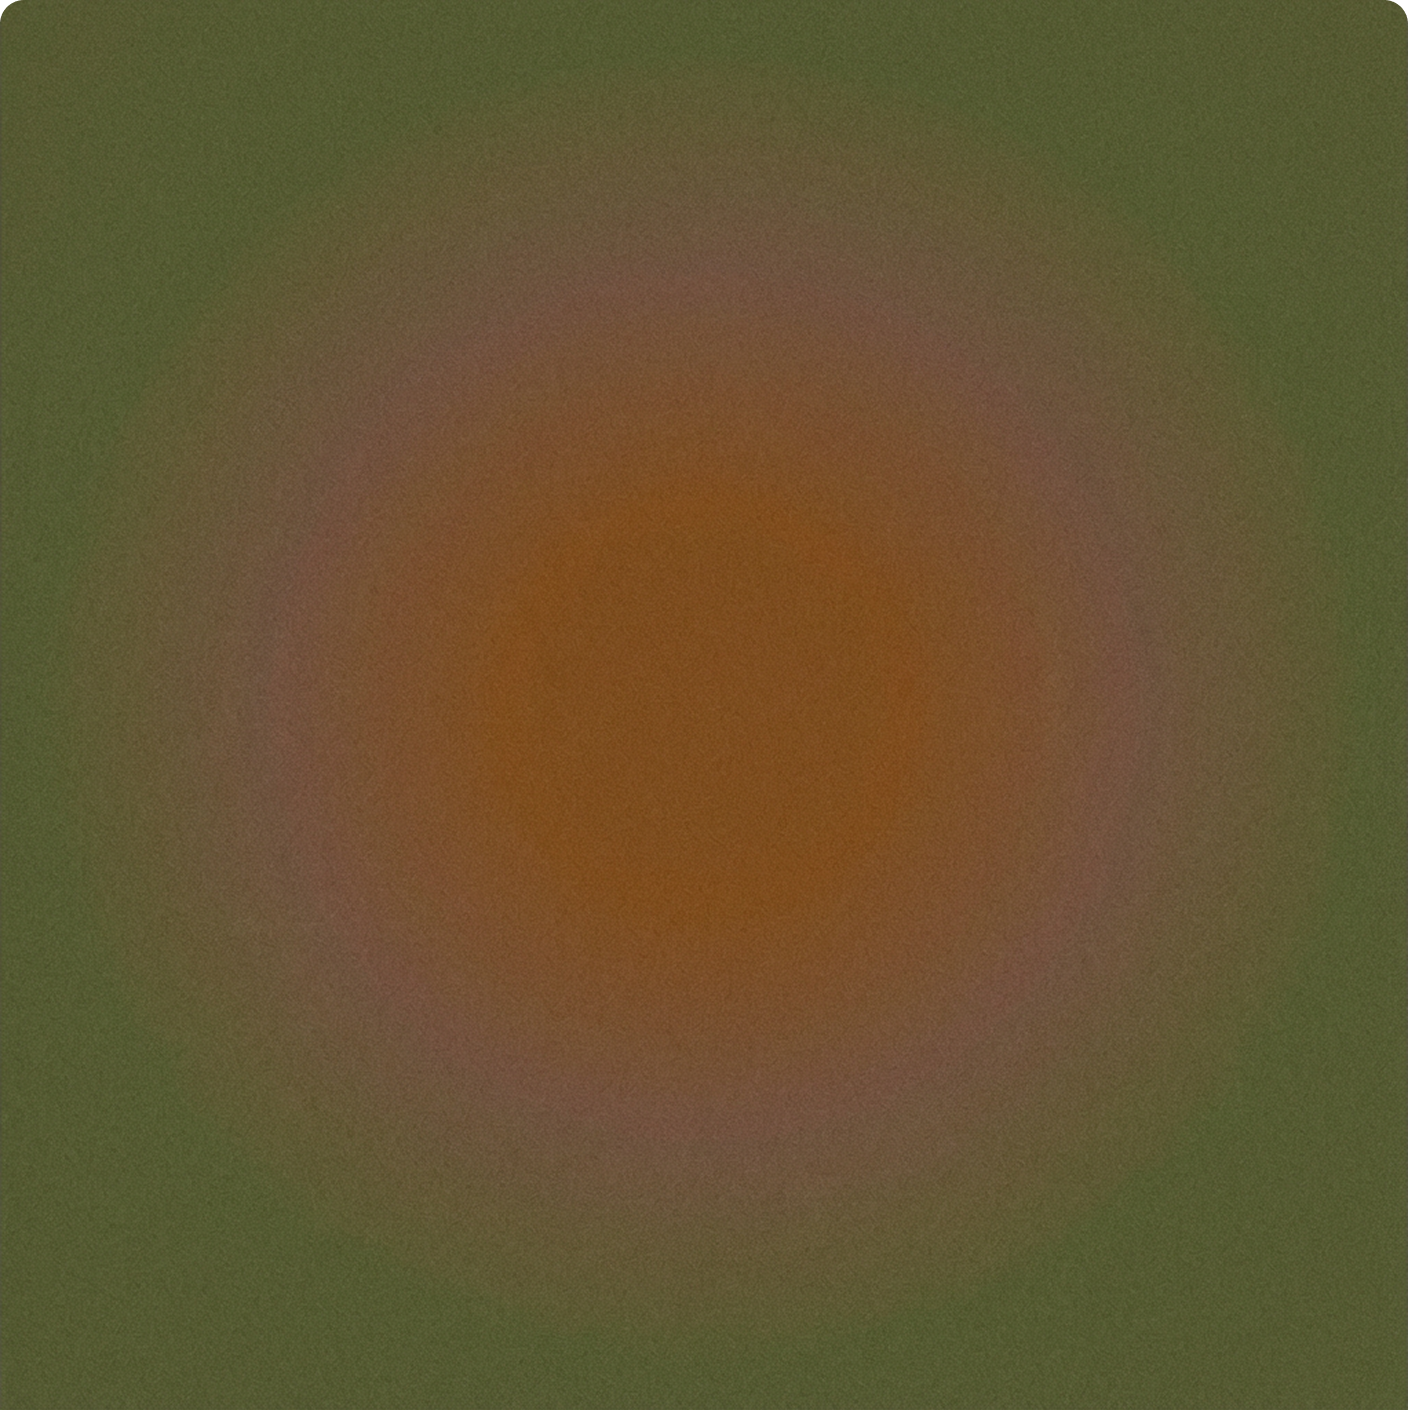
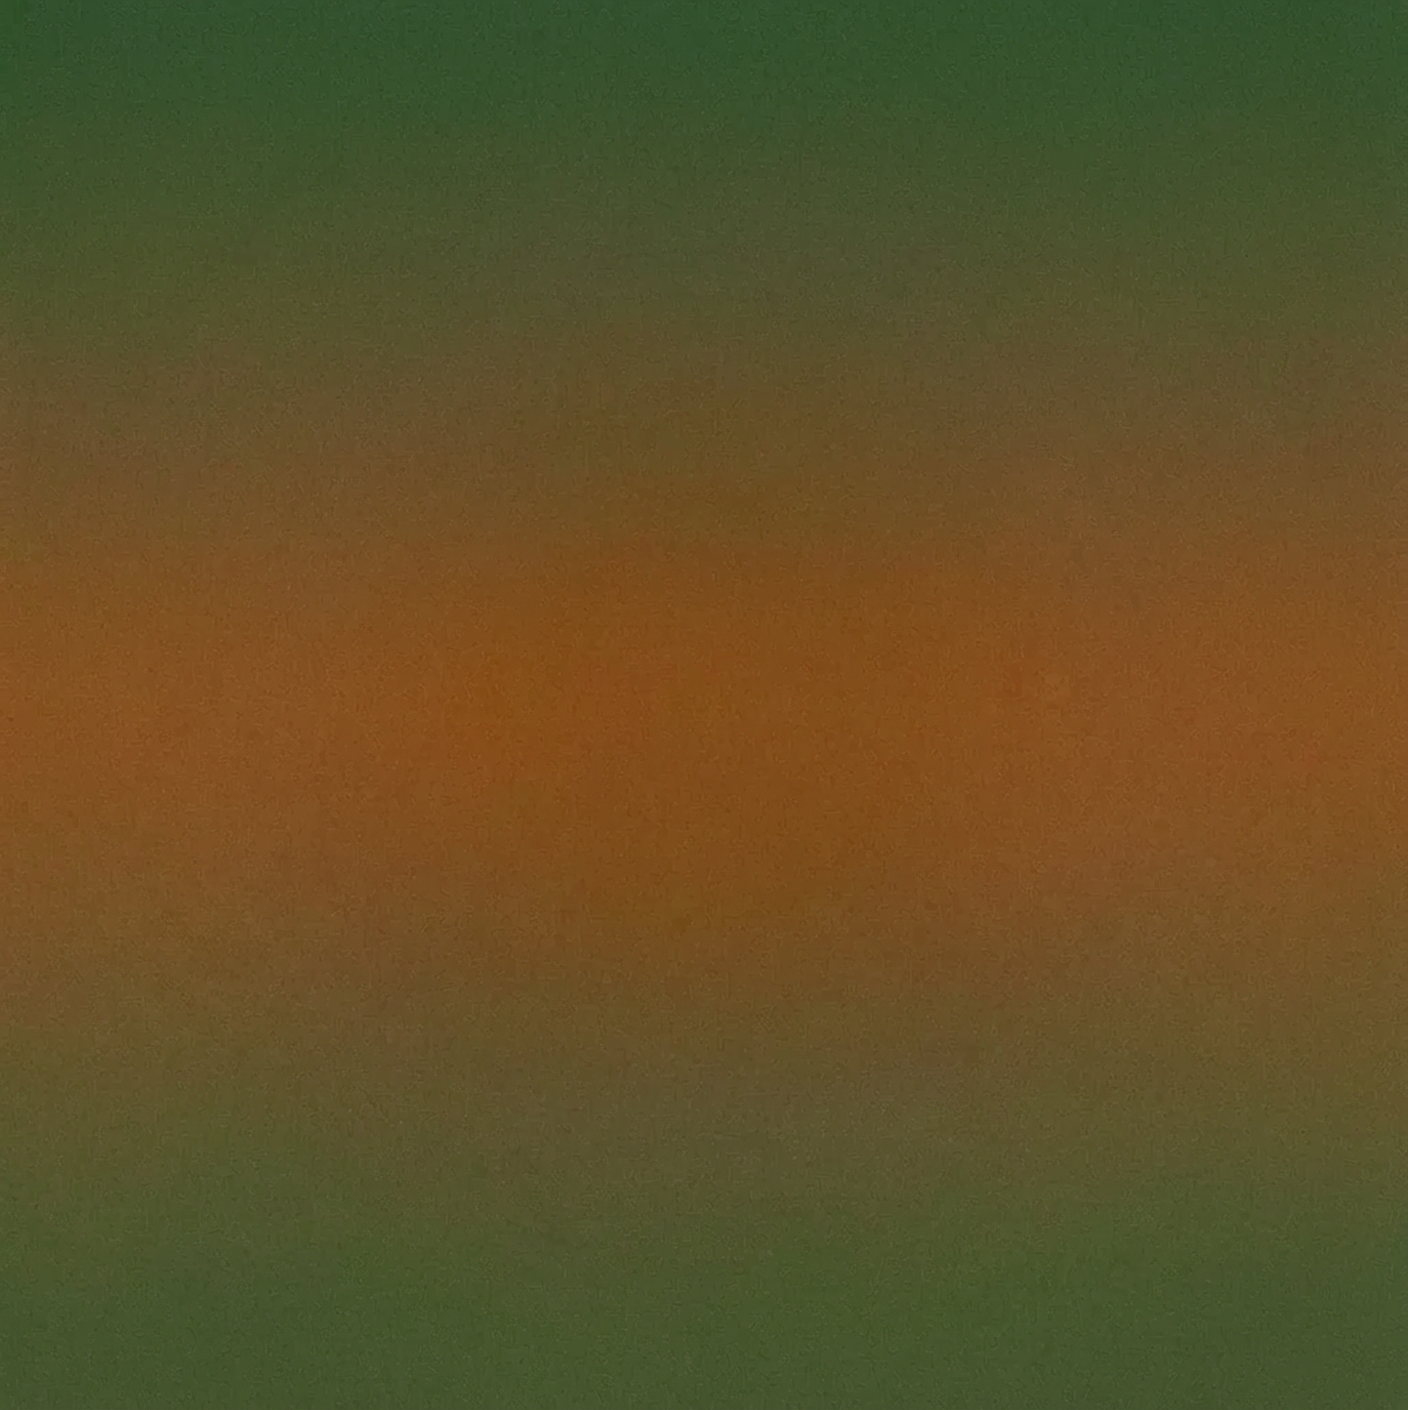
feat: implement robust JSON extraction for Gemini API responses, refine UI layout, and update component styling

diff --git a/components/Hero.vue b/components/Hero.vue
@@ -1,27 +1,33 @@
 <template>
   <div>
-    <div v-if="!isLoading" ref="heroContainer" class="p-4 rounded-3xl bg-light-inverse-surface">
-      <div class="flex flex-col items-end gap-3">
-        <div class="relative w-full">
+    <div v-if="!isLoading" ref="heroContainer" class="w-full h-[calc(100vh-80px)] flex flex-col justify-center items-center custom-gradient">
+      <div class="flex flex-col items-center gap-8 w-full max-w-[800px] px-4">
+        <h1 class="font-brand text-4xl leading-3xl text-light-on-secondary-container text-center">
+          Dive In: Discover Your Next Big Idea!
+        </h1>
+        
+        <div class="w-full bg-light-inverse-surface rounded-3xl p-4 relative min-h-[172px] flex flex-col justify-between">
           <input
             id="hobby-input"
             v-model="inputValue"
             type="text"
             autocomplete="off"
-            class="w-full h-20 px-4 py-3 bg-transparent rounded-lg outline-none text-l font-regular text-light-inverse-on-surface placeholder:text-light-inverse-on-surface placeholder:opacity-70"
+            class="w-full h-auto bg-transparent outline-none text-l font-regular text-light-inverse-on-surface placeholder:text-light-inverse-on-surface placeholder:opacity-70 resize-none p-2"
             :placeholder="placeholderText"
           />
+          
+          <div class="flex justify-end">
+            <button
+              @click="handleClick"
+              :disabled="inputValue.trim() === ''"
+              class="flex items-center justify-center w-12 h-12 transition-colors bg-light-primary rounded-full disabled:bg-light-primary-50 disabled:cursor-not-allowed"
+            >
+              <svg width="24" height="24" viewBox="0 0 24 24" fill="none" xmlns="http://www.w3.org/2000/svg">
+                <path d="M12 4L10.59 5.41L16.17 11H4V13H16.17L10.59 18.59L12 20L20 12L12 4Z" fill="white"/>
+              </svg>
+            </button>
+          </div>
         </div>
-        
-        <HeroSuggestions @select="handleSuggestionSelect" />
-
-        <button
-          @click="handleClick"
-          :disabled="inputValue.trim() === ''"
-          class="flex items-center justify-center w-full gap-3 px-4 transition-colors bg-light-primary md:w-auto h-12 rounded-full disabled:bg-light-primary-50 disabled:cursor-not-allowed"
-        >
-          <span class="font-medium text-m text-light-on-primary">Give me some shit</span>
-        </button>
       </div>
     </div>
 
@@ -34,9 +40,14 @@
            The user said "waiting for gemini... loading screen... like PromptLayout".
            So we should probably show the big card skeleton here to make the transition seamless.
       -->
-       <div class="container-centered w-full">
+       <div class="container-centered w-full flex flex-col items-center">
+        <!-- Prompt Text with Shimmer -->
+        <h2 class="text-3xl font-brand italic text-center mb-12 text-shimmer max-w-4xl leading-normal">
+          “{{ inputValue }}”
+        </h2>
+
         <!-- Skeleton Navigation Buttons -->
-        <div class="flex flex-col md:flex-row justify-between items-center mb-6 gap-4 opacity-0"> <!-- Hidden but taking space if we want exact match, or just omit -->
+        <div class="flex flex-col md:flex-row justify-between items-center mb-6 gap-4 w-full opacity-0"> <!-- Hidden but taking space -->
            <!-- Omitted for now as Hero doesn't have nav buttons usually, but let's stick to the card -->
         </div>
 
@@ -73,10 +84,8 @@
 <script setup>
 import { ref, onMounted, onUnmounted } from "vue";
 import gsap from "gsap";
-import HeroSuggestions from "./HeroSuggestions.vue";
 
 const heroContainer = ref(null);
-const descriptionText = ref(null);
 
 const props = defineProps({
   isLoading: Boolean,
@@ -89,19 +98,20 @@ const handleClick = () => {
   emit("show-money", inputValue.value);
 };
 
-const handleSuggestionSelect = (text) => {
-  inputValue.value = text;
-};
+
 
 const playHeroAnimation = () => {
   const tl = gsap.timeline();
-  tl.to(heroContainer.value, { y: 100, autoAlpha: 0, duration: 0.5 });
-  tl.to(descriptionText.value, { autoAlpha: 0, duration: 0.5 }, "<");
+  if (heroContainer.value) {
+    tl.to(heroContainer.value, { y: 100, autoAlpha: 0, duration: 0.5 });
+  }
   return tl;
 };
 
 const resetAnimation = () => {
-  gsap.set([heroContainer.value, descriptionText.value], { y: 0, autoAlpha: 1 });
+  if (heroContainer.value) {
+    gsap.set(heroContainer.value, { y: 0, autoAlpha: 1 });
+  }
 };
 
 // Placeholder Animation Logic
@@ -173,6 +183,21 @@ defineExpose({ playHeroAnimation, resetAnimation });
   animation: shimmer 1.5s infinite linear;
 }
 
+.text-shimmer {
+  background: linear-gradient(
+    to right,
+    #221A14 0%,
+    #89511F 20%,
+    #221A14 40%,
+    #221A14 100%
+  );
+  background-size: 200% auto;
+  color: transparent;
+  -webkit-background-clip: text;
+  background-clip: text;
+  animation: shimmer 3s linear infinite;
+}
+
 @keyframes shimmer {
   0% {
     background-position: 100% 0;
@@ -180,5 +205,15 @@ defineExpose({ playHeroAnimation, resetAnimation });
   100% {
     background-position: -100% 0;
   }
+}
+
+.custom-gradient {
+  background: linear-gradient(
+    180deg,
+    rgba(255, 255, 255, 0) 0%,
+    rgba(255, 183, 128, 1) 50%, /* primary-80 #FFB780 */
+    rgba(198, 165, 142, 1) 75%, /* secondary-70 #C6A58E */
+    rgba(144, 148, 101, 1) 100% /* tertiary-60 #909465 */
+  );
 }
 </style>

diff --git a/server/api/gemini.post.ts b/server/api/gemini.post.ts
@@ -18,6 +18,45 @@ export default defineEventHandler(async (event) => {
   const genAI = new GoogleGenerativeAI(config.geminiApiKey);
   const model = genAI.getGenerativeModel({ model: 'gemini-2.5-flash' });
 
+  // Helper function to extract JSON from text
+  const extractJson = (text) => {
+    try {
+      // First, try to parse the text directly
+      return JSON.parse(text);
+    } catch (e) {
+      // If that fails, try to find a JSON block
+      const jsonMatch = text.match(/```json\s*([\s\S]*?)\s*```/) || text.match(/```\s*([\s\S]*?)\s*```/);
+      if (jsonMatch) {
+        try {
+          return JSON.parse(jsonMatch[1]);
+        } catch (e2) {
+          // Continue to next attempt
+        }
+      }
+
+      // Try to find array or object start/end
+      const arrayMatch = text.match(/\[\s*\{[\s\S]*\}\s*\]/);
+      if (arrayMatch) {
+        try {
+          return JSON.parse(arrayMatch[0]);
+        } catch (e3) {
+          // Continue
+        }
+      }
+
+      const objectMatch = text.match(/\{[\s\S]*\}/);
+      if (objectMatch) {
+        try {
+          return JSON.parse(objectMatch[0]);
+        } catch (e4) {
+          // Continue
+        }
+      }
+
+      throw new Error('Could not extract valid JSON from response');
+    }
+  };
+
   if (generateGuide) {
     // Logic for generating the guide
     const guidePrompt = `You are a career advice expert. For the idea titled "${idea.title}" with the description "${idea.description}", provide a detailed guide. Your response must be a JSON object with the following structure: {"earnings_potential": "a string representing a range, e.g., $500-$2k", "competitive_score": a number from 0 to 10, "steps": [{"title": "Step 1 Title", "description": "Step 1 Description"}, ...]}. The guide should have between 5 and 10 steps. Do not include any other text or formatting in your response, just the JSON object.`;
@@ -25,16 +64,16 @@ export default defineEventHandler(async (event) => {
     try {
       const result = await model.generateContent(guidePrompt);
       const response = await result.response;
-      let text = response.text();
+      const text = response.text();
 
-      // Clean the response to ensure it's valid JSON
-      if (text.startsWith('```json')) {
-        text = text.substring(7, text.length - 3).trim();
-      } else if (text.startsWith('```')) {
-        text = text.substring(3, text.length - 3).trim();
+      let guideData;
+      try {
+        guideData = extractJson(text);
+      } catch (parseError) {
+        console.error('JSON Parse Error for Guide Generation:', parseError);
+        console.error('Raw Text:', text);
+        throw new Error('Failed to parse JSON response from Gemini.');
       }
-
-      const guideData = JSON.parse(text);
 
       // Step 1: Create a new report
       const { data: report, error: reportError } = await adminSupabase
@@ -80,7 +119,7 @@ export default defineEventHandler(async (event) => {
         `)
         .eq('id', reportId)
         .single();
-      
+
       if (finalReportError) {
         console.error('Supabase final report fetch error:', finalReportError);
         throw new Error('Failed to fetch final report.');
@@ -93,7 +132,7 @@ export default defineEventHandler(async (event) => {
       console.error('Error processing guide generation request:', error);
       event.node.res.statusCode = 500;
       return {
-        error: 'Failed to fetch from Gemini API or save data.',
+        error: error.message || 'Failed to fetch from Gemini API or save data.',
       };
     }
   } else if (fetchIdeasByPrompt) {
@@ -159,16 +198,16 @@ export default defineEventHandler(async (event) => {
     try {
       const result = await chat.sendMessage(prompt);
       const response = await result.response;
-      let text = response.text();
+      const text = response.text();
 
-      // Clean the response to ensure it's valid JSON
-      if (text.startsWith('```json')) {
-        text = text.substring(7, text.length - 3).trim();
-      } else if (text.startsWith('```')) {
-        text = text.substring(3, text.length - 3).trim();
+      let ideas;
+      try {
+        ideas = extractJson(text);
+      } catch (parseError) {
+        console.error('JSON Parse Error for Ideas Generation:', parseError);
+        console.error('Raw Text:', text);
+        throw new Error('Failed to parse JSON response from Gemini.');
       }
-
-      const ideas = JSON.parse(text);
 
       const { data: promptData, error: promptError } = await adminSupabase
         .from('prompts')
@@ -217,7 +256,7 @@ export default defineEventHandler(async (event) => {
       }
       event.node.res.statusCode = 500;
       return {
-        error: 'Failed to fetch from Gemini API or save data.',
+        error: error.message || 'Failed to fetch from Gemini API or save data.',
       };
     }
   }

diff --git a/components/CommunitySection.vue b/components/CommunitySection.vue
@@ -1,18 +1,10 @@
 <template>
-  <div ref="container" class="w-full bg-light-tertiary-container rounded-[32px] p-8 md:p-12">
-    <h2 class="text-6xl font-brand text-light-on-tertiary-container mb-8">
-      From the Community
-    </h2>
-
-    <!-- Filters -->
-    <div class="flex flex-wrap gap-3 mb-10">
-      <button
-        v-for="filter in filters"
-        :key="filter"
-        class="px-4 py-2 rounded-full border border-light-outline/20 bg-light-surface/30 text-sm font-medium text-light-on-surface-variant hover:bg-light-surface/50 transition-colors"
-      >
-        {{ filter }}
-      </button>
+  <div ref="container" class="w-full bg-light-surface p-8 md:p-0">
+    <div class="flex justify-between items-end mb-8">
+      <h2 class="text-6xl font-brand text-light-on-surface">
+        From the Community
+      </h2>
+      <a href="#" class="text-light-primary font-medium hover:underline mb-2">View all</a>
     </div>
 
     <!-- Grid -->
@@ -108,17 +100,7 @@ const props = defineProps({
 
 const emit = defineEmits(['prompt-click']);
 
-const filters = [
-  "Brainstorming",
-  "Concept Development",
-  "User Research",
-  "Market Analysis",
-  "Prototype Testing",
-  "Feedback Gathering",
-  "Iterative Design",
-  "Feature Prioritization",
-  "Final Presentation",
-];
+
 
 // Pagination state
 const visibleCount = ref(16);

diff --git a/pages/index.vue b/pages/index.vue
@@ -3,7 +3,7 @@
     <!-- Loading Overlay Removed -->
     <!-- <div v-if="isLoading" class="fixed inset-0 bg-light-surface flex flex-col items-center justify-center z-50"> ... </div> -->
 
-    <header class="py-6">
+    <header class="sticky top-0 z-50 bg-light-surface/80 backdrop-blur-md border-light-outline-variant">
       <div class="mx-auto max-w-[1440px] px-6 flex items-center justify-between">
         <Navbar @open-login-modal="loginModal.openModal()" />
       </div>
@@ -12,13 +12,13 @@
     <main class="flex-grow flex flex-col overflow-hidden">
       <div class="flex-grow flex items-center justify-center">
         <!-- Hero component, only shown when not loading and no ideas -->
-        <div class="mx-auto py-64 w-full overflow-hidden" :class="isLoading ? 'max-w-[1440px]' : 'max-w-3xl'">
+        <div class="mx-auto w-full overflow-hidden">
           <Hero ref="heroComponent" :isLoading="isLoading" @show-money="handleShowMoney" />
         </div>
       </div>
       
       
-      <div class="mx-auto max-w-[1440px] px-4 w-full mt-12 mb-20">
+      <div class="mx-auto max-w-[1440px] px-4 w-full my-20">
         <CommunitySection 
           ref="communitySection"
           :prompts="recentPrompts"

diff --git a/components/Footer.vue b/components/Footer.vue
@@ -1,8 +1,8 @@
 <template>
-  <div class="relative w-full overflow-hidden rounded-t-[24px] h-[845px] flex flex-col justify-between p-8 md:p-12">
+  <div class="relative w-full overflow-hidden h-[845px] flex flex-col justify-between p-8 md:p-12">
     <!-- Background Image -->
     <img
-      src="~/assets/background-Image.png"
+      :src="backgroundImage"
       alt="Footer Background"
       class="absolute inset-0 w-full h-full object-cover object-top z-0"
     />
@@ -48,7 +48,7 @@
 </template>
 
 <script setup>
-// No script logic needed for this static footer
+import backgroundImage from '~/assets/background-Image.png';
 </script>
 
 <style scoped>
